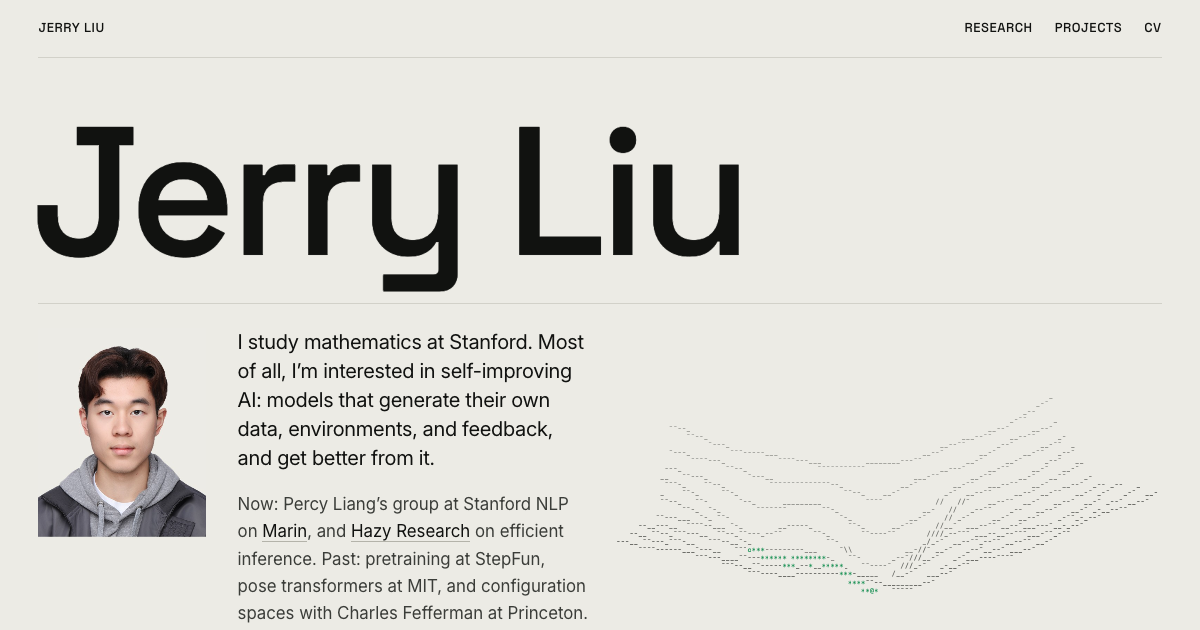
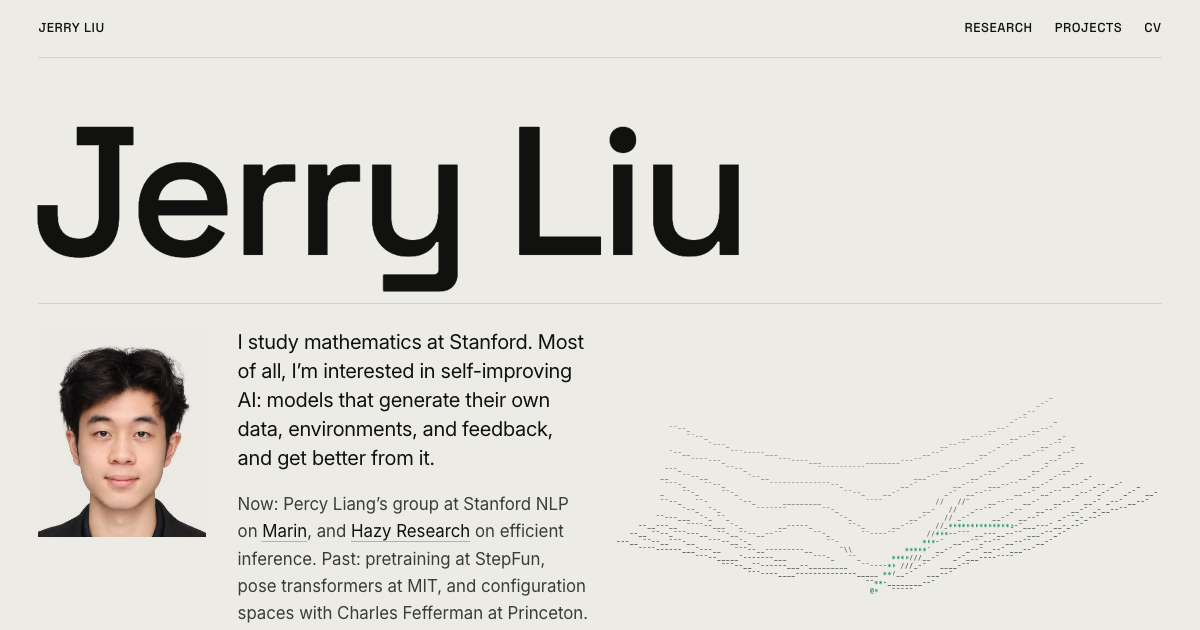
Use new profile photo
Background matched to the page color; link-preview image regenerated.

diff --git a/src/data/site.ts b/src/data/site.ts
@@ -15,7 +15,7 @@ export const site = {
   email: 'jerryl07@stanford.edu',
   // Resume lives in public/docs. To update it, replace the file and keep the path.
   resume: '/docs/Jerry_Liu_Resume.pdf',
-  profile: '/images/profile-light.jpg',
+  profile: '/images/profile-photo.jpg',
   location: 'Stanford, CA',
 } as const;
 

diff --git a/README.md b/README.md
@@ -102,8 +102,8 @@ Everything you'll edit regularly lives in `src/data/` and `src/content/`.
   `public/docs/README.md`.
 - Put images in `public/images/` (project thumbnails in
   `public/images/projects/`). See `public/images/README.md`.
-- `public/images/profile-light.jpg` is the portrait used in the home intro
-  (the original studio photo, `profile.png`, with its white background matched to the page color).
+- `public/images/profile-photo.jpg` is the portrait used in the home intro
+  (a studio photo with its white background matched to the page color).
 - The social-share image is `public/images/og-default.png` (1200×630), a screenshot of the home page.
 
 > Keep private or sensitive documents out of `public/` — everything there is

diff --git a/public/images/README.md b/public/images/README.md
@@ -6,7 +6,7 @@ Static images served at `/images/...`.
 
 - `og-default.png` — default social-share (Open Graph) image, 1200×630: a screenshot
   of the top of the home page. Re-capture it after changing the hero.
-- `profile-light.jpg` — portrait used in the home intro (background matched to the page).
+- `profile-photo.jpg` — portrait used in the home intro (background matched to the page).
 - `profile.png` — the original studio photo (white background), kept as the source.
 - `projects/` — project thumbnails (see below).
 
